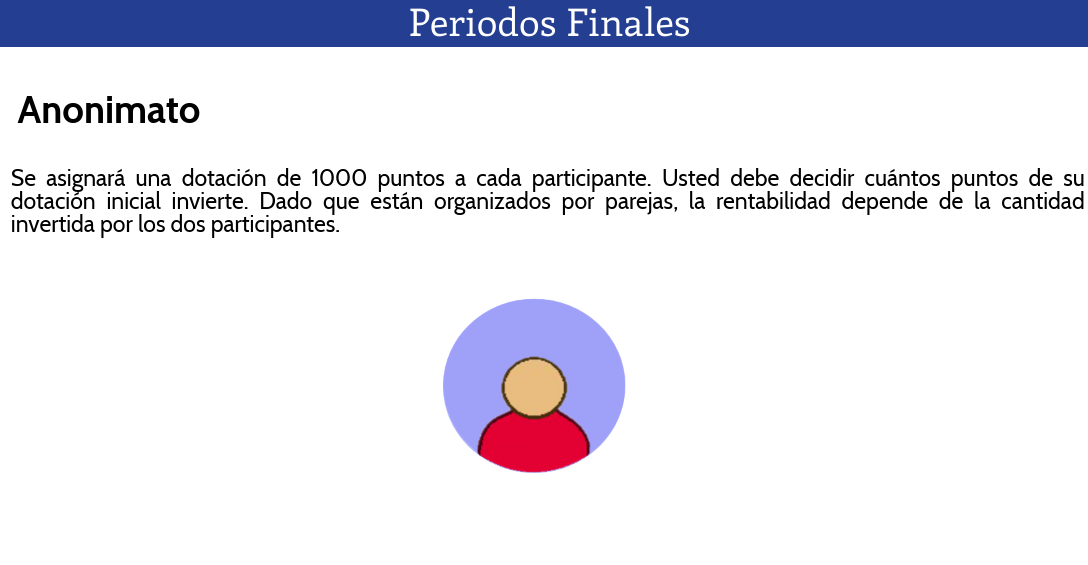
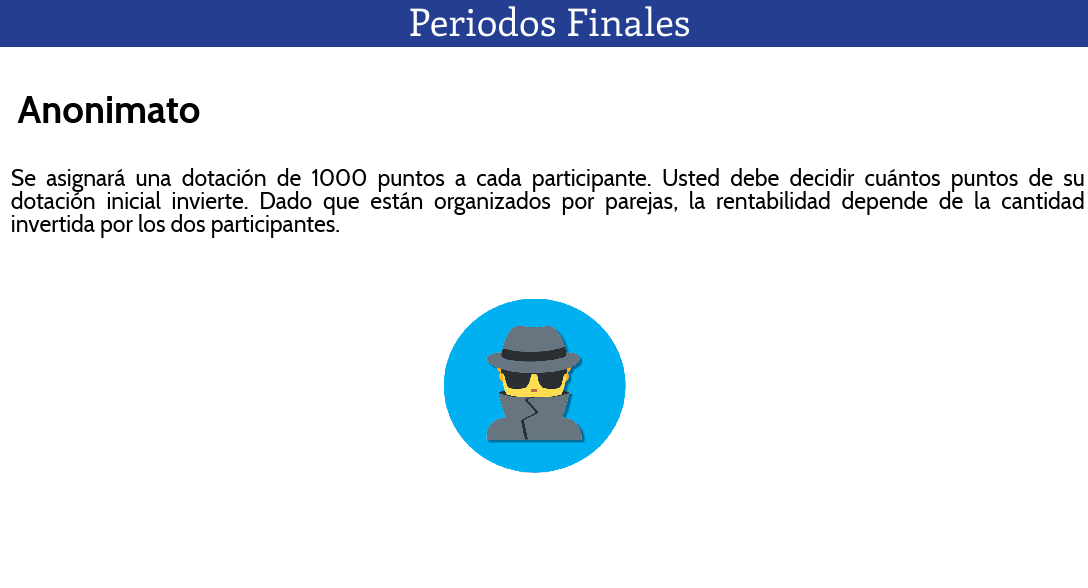
Inversion v2.8.6
Actualizaión de iconos

diff --git a/inversion_coordinacion_reputacion/templates/inversion_coordinacion_reputacion/DecisionesSIN.html b/inversion_coordinacion_reputacion/templates/inversion_coordinacion_reputacion/DecisionesSIN.html
@@ -59,19 +59,19 @@
     
     <p> Su dotacion inicial es de {{Constants.Dotacion}}</p>
 
-    <p> {% formfield player.Inversion label="Debe decidir cuántos puntos invertir:" %}
+    <p> {% formfield player.Inversion label="Debe decidir cuántos puntos invertir:" %} </p>
 
     {% if tratamiento %}
         {% if numeroronda >= rondastotales %}
-            <img  class="imagen" src = "{% static 'inversion_coordinacion_reputacion/anonimato_fondo.png' %}"/>
+            <img  class="imagen" src = "{% static 'inversion_coordinacion_reputacion/anonimato_azul.png' %}"/>
         {% else %}
-            <img  class="imagen" src = "{% static 'inversion_coordinacion_reputacion/reputacion_fondo.png' %}"/>
+            <img  class="imagen" src = "{% static 'inversion_coordinacion_reputacion/reputacion_verde.png' %}"/>
         {% endif %}
     {% else %}
         {% if numeroronda >= rondastotales %}
-           <img  class="imagen" src = "{% static 'inversion_coordinacion_reputacion/reputacion_fondo.png' %}"/>
+           <img  class="imagen" src = "{% static 'inversion_coordinacion_reputacion/reputacion_azul.png' %}"/>
         {% else %}
-            <img class="imagen" src = "{% static 'inversion_coordinacion_reputacion/anonimato_fondo.png' %}"/>
+            <img class="imagen" src = "{% static 'inversion_coordinacion_reputacion/anonimato_verde.png' %}"/>
         {% endif %}
     {% endif %}
 

diff --git a/inversion_coordinacion_reputacion/templates/inversion_coordinacion_reputacion/DecisionesCON.html b/inversion_coordinacion_reputacion/templates/inversion_coordinacion_reputacion/DecisionesCON.html
@@ -62,17 +62,17 @@
 
     {% formfield player.Inversion label="Debe decidir cuántos puntos invertir:" %}
 
-        {% if tratamiento %}
+    {% if tratamiento %}
         {% if numeroronda >= rondastotales %}
-            <img  class="imagen" src = "{% static 'inversion_coordinacion_reputacion/anonimato_fondo.png' %}"/>
+            <img  class="imagen" src = "{% static 'inversion_coordinacion_reputacion/anonimato_azul.png' %}"/>
         {% else %}
-            <img  class="imagen" src = "{% static 'inversion_coordinacion_reputacion/reputacion_fondo.png' %}"/>
+            <img  class="imagen" src = "{% static 'inversion_coordinacion_reputacion/reputacion_verde.png' %}"/>
         {% endif %}
     {% else %}
         {% if numeroronda >= rondastotales %}
-           <img  class="imagen" src = "{% static 'inversion_coordinacion_reputacion/reputacion_fondo.png' %}"/>
+           <img  class="imagen" src = "{% static 'inversion_coordinacion_reputacion/reputacion_azul.png' %}"/>
         {% else %}
-            <img class="imagen" src = "{% static 'inversion_coordinacion_reputacion/anonimato_fondo.png' %}"/>
+            <img class="imagen" src = "{% static 'inversion_coordinacion_reputacion/anonimato_verde.png' %}"/>
         {% endif %}
     {% endif %}
 

diff --git a/inversion_coordinacion_reputacion/templates/inversion_coordinacion_reputacion/GananciasSIN.html b/inversion_coordinacion_reputacion/templates/inversion_coordinacion_reputacion/GananciasSIN.html
@@ -63,17 +63,17 @@
 
     <p> Su ganancia en este periodo es: {{player.Pagos}}</p>
 
-        {% if tratamiento %}
+    {% if tratamiento %}
         {% if numeroronda >= rondastotales %}
-            <img  class="imagen" src = "{% static 'inversion_coordinacion_reputacion/anonimato_fondo.png' %}"/>
+            <img  class="imagen" src = "{% static 'inversion_coordinacion_reputacion/anonimato_azul.png' %}"/>
         {% else %}
-            <img  class="imagen" src = "{% static 'inversion_coordinacion_reputacion/reputacion_fondo.png' %}"/>
+            <img  class="imagen" src = "{% static 'inversion_coordinacion_reputacion/reputacion_verde.png' %}"/>
         {% endif %}
     {% else %}
         {% if numeroronda >= rondastotales %}
-           <img  class="imagen" src = "{% static 'inversion_coordinacion_reputacion/reputacion_fondo.png' %}"/>
+           <img  class="imagen" src = "{% static 'inversion_coordinacion_reputacion/reputacion_azul.png' %}"/>
         {% else %}
-            <img class="imagen" src = "{% static 'inversion_coordinacion_reputacion/anonimato_fondo.png' %}"/>
+            <img class="imagen" src = "{% static 'inversion_coordinacion_reputacion/anonimato_verde.png' %}"/>
         {% endif %}
     {% endif %}
 

diff --git a/inversion_coordinacion_reputacion/templates/inversion_coordinacion_reputacion/GananciasCON.html b/inversion_coordinacion_reputacion/templates/inversion_coordinacion_reputacion/GananciasCON.html
@@ -64,15 +64,15 @@
 
     {% if tratamiento %}
         {% if numeroronda >= rondastotales %}
-            <img  class="imagen" src = "{% static 'inversion_coordinacion_reputacion/anonimato_fondo.png' %}"/>
+            <img  class="imagen" src = "{% static 'inversion_coordinacion_reputacion/anonimato_azul.png' %}"/>
         {% else %}
-            <img  class="imagen" src = "{% static 'inversion_coordinacion_reputacion/reputacion_fondo.png' %}"/>
+            <img  class="imagen" src = "{% static 'inversion_coordinacion_reputacion/reputacion_verde.png' %}"/>
         {% endif %}
     {% else %}
         {% if numeroronda >= rondastotales %}
-           <img  class="imagen" src = "{% static 'inversion_coordinacion_reputacion/reputacion_fondo.png' %}"/>
+           <img  class="imagen" src = "{% static 'inversion_coordinacion_reputacion/reputacion_azul.png' %}"/>
         {% else %}
-            <img class="imagen" src = "{% static 'inversion_coordinacion_reputacion/anonimato_fondo.png' %}"/>
+            <img class="imagen" src = "{% static 'inversion_coordinacion_reputacion/anonimato_verde.png' %}"/>
         {% endif %}
     {% endif %}
 

diff --git a/inversion_coordinacion_reputacion/templates/inversion_coordinacion_reputacion/presentacion.html b/inversion_coordinacion_reputacion/templates/inversion_coordinacion_reputacion/presentacion.html
@@ -29,7 +29,7 @@
       }
 </style>
 
-<img  src = "{% static 'inversion_coordinacion_reputacion/presentacion.png' %}"/>
+<img  src = "{% static 'inversion_coordinacion_reputacion/presentacion_inv.png' %}"/>
 
 <p> </p>
 
